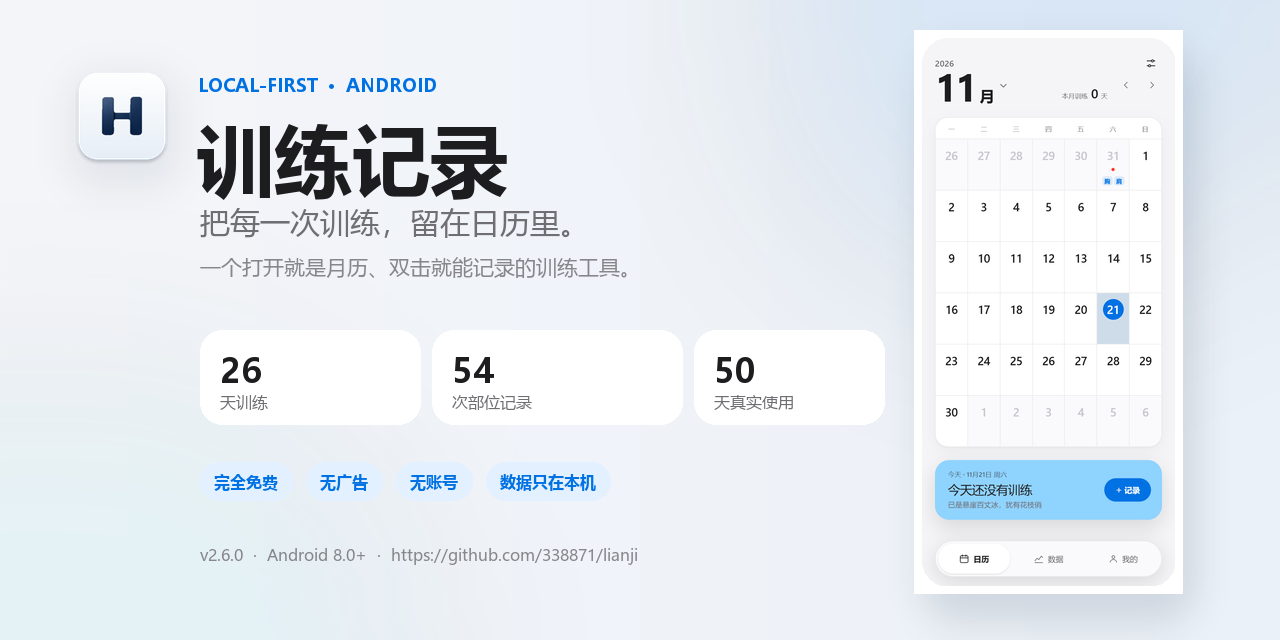
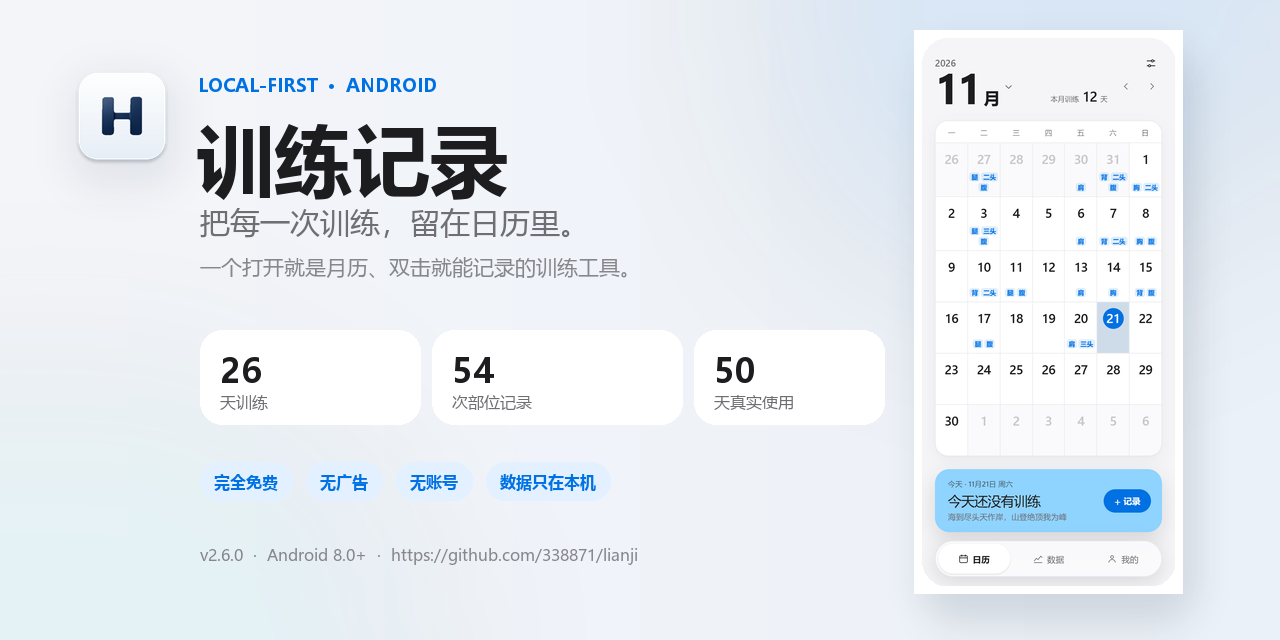
使用真实备份数据更新项目介绍截图

diff --git a/README.md b/README.md
@@ -73,7 +73,7 @@
 双击任意日期，直接打开当天编辑界面；单击只选中日期，下方编辑模块同步更新。
 
 <div align="center">
-  <img src="screenshots/calendar-outside.png" alt="日历与灰色日期训练记录" width="72%">
+  <img src="assets/screens/calendar.png" alt="日历与灰色日期训练记录" width="72%">
 </div>
 
 ### 记录可以很轻，也可以很完整
@@ -86,7 +86,7 @@
 - 训练笔记 1000 字，输入框缩短到约 90px 高
 
 <div align="center">
-  <img src="screenshots/entry-sheet.png" alt="训练编辑界面" width="58%">
+  <img src="assets/screens/editor.png" alt="训练编辑界面" width="58%">
 </div>
 
 ### 数据页：看见训练留下的形状
@@ -100,8 +100,11 @@
 - 数据页会记住上次的时间模式，关掉应用再打开仍然保留
 
 <div align="center">
-  <img src="screenshots/curve-view.png" alt="训练曲线与部位占比" width="46%">
-  <img src="screenshots/curve-30.png" alt="近30天曲线" width="46%">
+  <img src="assets/screens/data.png" alt="训练曲线与部位占比" width="68%">
+</div>
+
+<div align="center">
+  <img src="assets/screens/pie.png" alt="部位占比" width="52%">
 </div>
 
 ### 部位训练日期表
@@ -115,7 +118,7 @@
 - 不需要横向滑动，30 天一次展开
 
 <div align="center">
-  <img src="screenshots/data-timeline.png" alt="部位训练日期表" width="90%">
+  <img src="assets/screens/timeline.png" alt="部位训练日期表" width="90%">
 </div>
 
 ### 我的：留下训练之外的东西
@@ -127,8 +130,7 @@
 - 备份导出 / 导入，所有数据只在本机
 
 <div align="center">
-  <img src="screenshots/part-notes-card.png" alt="训练部位记录卡片" width="44%">
-  <img src="screenshots/part-notes-editor.png" alt="训练部位记录编辑" width="44%">
+  <img src="assets/screens/profile.png" alt="我的训练统计" width="62%">
 </div>
 
 ### 一些小心思
@@ -139,8 +141,7 @@
 - 训练部位权重下方注明「仅影响曲线图中训练值」
 
 <div align="center">
-  <img src="screenshots/calendar-poem.png" alt="随机诗句" width="46%">
-  <img src="screenshots/year-view.png" alt="年份总览" width="46%">
+  <img src="assets/screens/year.png" alt="全年训练总览" width="46%">
 </div>
 
 ## 本地优先
